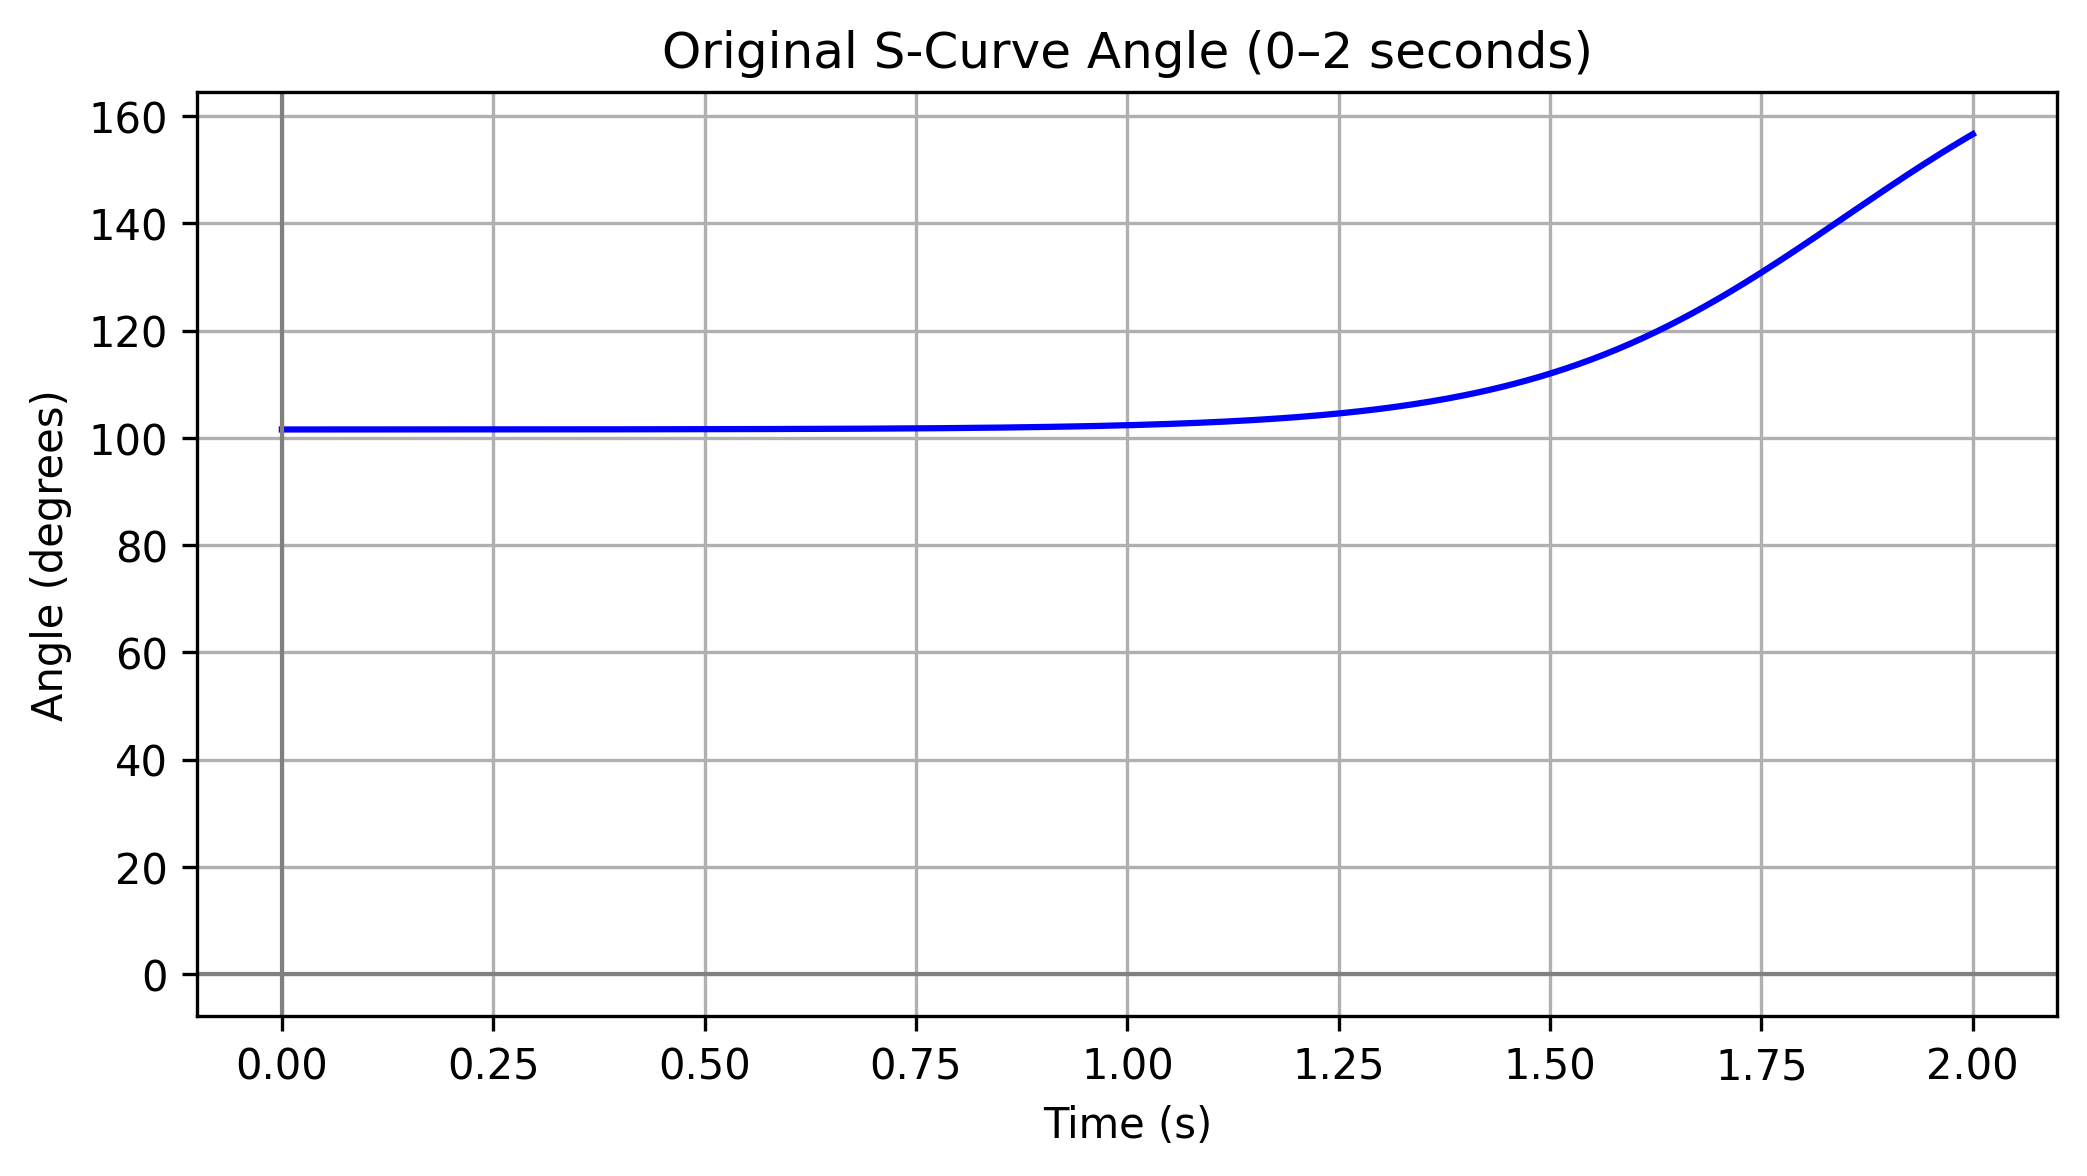
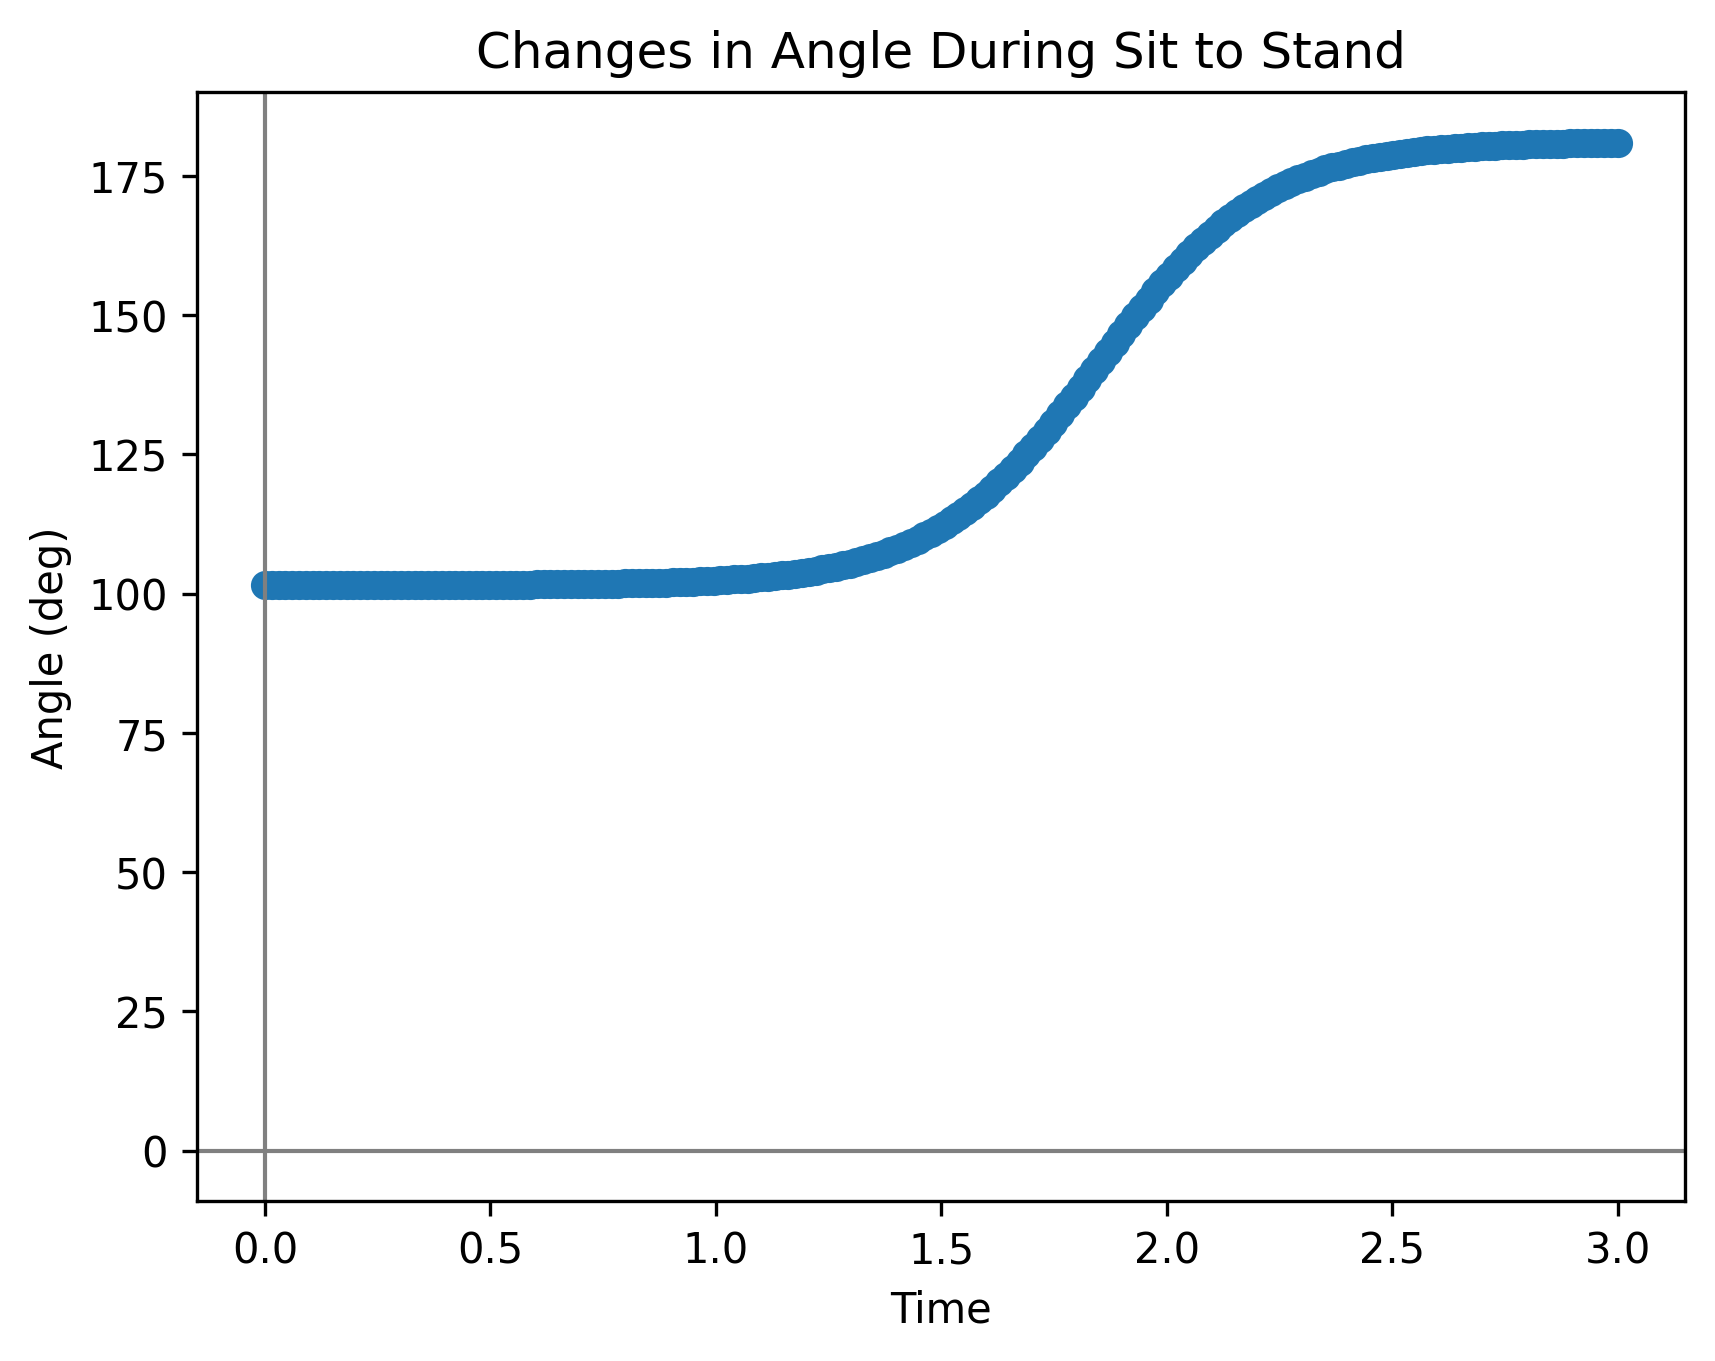
plot updates

diff --git a/Model_1/main.py b/Model_1/main.py
@@ -76,8 +76,8 @@ a_x = []
 a_y = []
 
 # Inputs for dataset 3
-subject_mass = 80
-subject_height = 1.84
+subject_mass = 125
+subject_height = 1.93
 
 #sit to stand
 a3_x = []
@@ -92,7 +92,7 @@ a3_yn = []
 t3_xn = []
 t3_yn = []
 
-total_timen = 1
+total_timen = 2.0
 
 # ============================================================
 #  CSV LOADING FUNCTIONS (TORQUE, ANGLE, THETA2, GAIT, etc.)
@@ -274,9 +274,9 @@ def get_csv_torque3n_data():
 get_angle_data()
 get_torque_data()
 
-cs_tor = CubicSpline(t_x, t_y)         # torque vs time
-cs_ang = CubicSpline(a_x, a_y)         # angle vs time
-dcs_ang = cs_ang.derivative()          # d(angle)/dt (deg/s if angle is in degrees)
+cs_tor = CubicSpline(t_x, t_y)
+cs_ang = CubicSpline(a_x, a_y)
+dcs_ang = cs_ang.derivative()
 
 
 def tor(t):
@@ -441,17 +441,21 @@ def powerelec3_plots():
     """
     time_vals   = np.linspace(0.0, total_time, 200)
     power_vals = [power3(t) for t in time_vals]
+    max_power = max(power_vals)
     plt.figure(10)
     plt.plot(time_vals, power_vals)
     plt.axhline(y=0, color='gray', linestyle='-', linewidth=1)
     plt.axvline(x=0, color='gray', linestyle='-', linewidth=1)
-    plt.title('Power_Electrical from Sit to Stand (80kg 1.84m)')
+    plt.title('Power_Electrical from Sit to Stand (125kg 1.93m)')
     plt.xlabel('Time (s)')
     plt.ylabel('Power (W)')
+    plt.axhline(y=max_power, color='red', linestyle='--', linewidth=1, label='Max Power: {:.2f} W'.format(max_power))
+    plt.legend()
     plt.savefig("power.png", dpi=300, bbox_inches="tight")
 
     time2_vals   = np.linspace(0.0, total_timen, 200)
     power2_vals = [abs(power3n(t)) for t in time2_vals]
+    max_power2 = max(power2_vals)
     plt.figure(11)
     plt.plot(time2_vals, power2_vals)
     plt.axhline(y=0, color='gray', linestyle='-', linewidth=1)
@@ -459,6 +463,8 @@ def powerelec3_plots():
     plt.title('Power_Electrical from Stand to Sit (80kg 1.84m)')
     plt.xlabel('Time (s)')
     plt.ylabel('Power (W)')
+    plt.axhline(y=max_power2, color='red', linestyle='--', linewidth=1, label='Max Power: {:.2f} W'.format(max_power2))
+    plt.legend()
     plt.savefig("power2.png", dpi=300, bbox_inches="tight")
 # ============================================================
 #  ANALYTIC SIT-TO-STAND MODEL (TANH-BASED ANGLE)
@@ -549,17 +555,17 @@ def test_plot():
     Debug plot for angular_velocity_sts over [0, 3]s.
     """
     get_csv_torque_data()
-    t_vals   = np.linspace(0.0, 3.0, 20)
-    tau_vals = [angular_velocity_sts(t) for t in t_vals]
+    t_vals   = np.linspace(0.0, 3.0, 200)
+    tau_vals = [power_sts(t) for t in t_vals]
 
     plt.figure(7)
     plt.plot(t_vals, tau_vals, marker='o')
     plt.axhline(y=0, color='gray', linestyle='-', linewidth=1)
     plt.axvline(x=0, color='gray', linestyle='-', linewidth=1)
-    plt.xlabel('Time')
-    plt.ylabel('Torque Nm')  # NOTE: actually plotting angular velocity here
-    plt.title('Torque Plot')
-    plt.savefig("torque.png", dpi=300, bbox_inches="tight")
+    plt.xlabel('Time (s)')
+    plt.ylabel('Power (W)')  # NOTE: actually plotting angular velocity here
+    plt.title('Electrical Power during Sit to Stand')
+    plt.savefig("PowerTest.png", dpi=300, bbox_inches="tight")
 
 
 # ============================================================
@@ -766,7 +772,7 @@ battery_life_estimate()
 # angle_plot()
 # cum_avg_plot()
 # sit_to_stand_plots()
-# test_plot()
+test_plot()
 # torque_plot()
 # t_and_a_plot()
 angle_plots()
